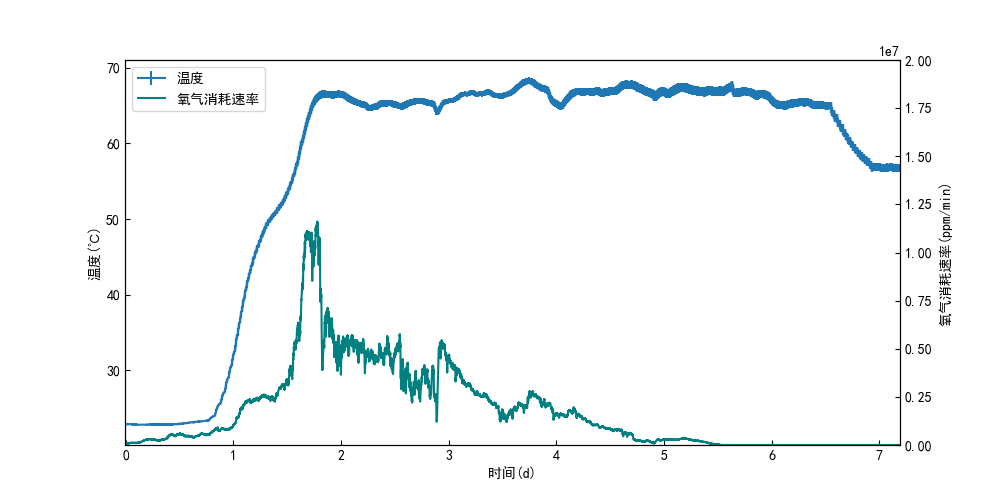
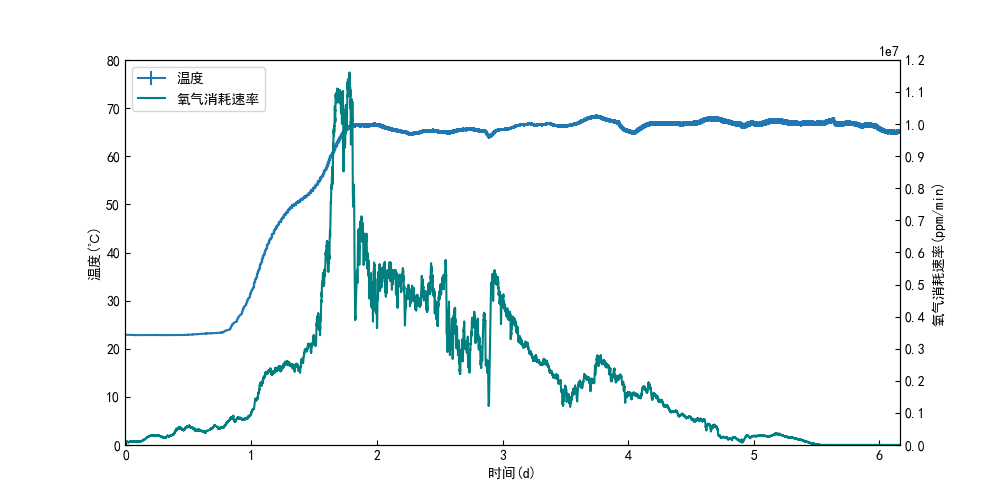
最新

diff --git a/test.py b/test.py
@@ -5,12 +5,13 @@ import seaborn
 import matplotlib.dates as mdates
 from matplotlib import pyplot as plt
 import matplotlib
+from matplotlib.pyplot import MultipleLocator
 
 plt.rcParams['font.family'] = 'SimHei'
 plt.rcParams['axes.unicode_minus'] = False
 
-path_pre = 'data2'
-for i in range(1, 6):
+path_pre = 'data1'
+for i in range(4, 6):
     data = pandas.read_csv(path_pre + '/' + 'mr' + str(i) + '.csv')
     co2 = pandas.read_csv(path_pre + '/' + 'CO2-' + str(i) + '.csv')
     data['newindex'] = np.arange(len(data)-1, -1, -1)
@@ -50,8 +51,9 @@ for i in range(1, 6):
                      yerr=data['Std'][::],  label='温度')
     handle1, label1 = ax.get_legend_handles_labels()
     ax.xaxis.set_major_formatter(plt.FuncFormatter(format_func))
-    ax.xaxis.set_major_locator(mdates.HourLocator(byhour=12))
+    ax.xaxis.set_major_locator(mdates.HourLocator(byhour=22))
     # ax.set_xticks([0, 1, 2, 3, 4])
+    ax.set_ylim((0, 80))
     ax.set_ylabel('温度(℃)')
 
     ax1 = ax.twinx()
@@ -61,15 +63,20 @@ for i in range(1, 6):
     # ax1.xaxis.set_major_formatter(plt.FuncFormatter(format_func))
     # ax1.xaxis.set_major_locator(mdates.HourLocator(interval=24))
     ax1.set_ylabel("氧气消耗速率(ppm/min)")
-    ax1.set_ylim((0, 20000000))
+    ax1.set_ylim((0, 12000000))
+    y_major_locator=MultipleLocator(1000000)
+    ax1.yaxis.set_major_locator(y_major_locator)
+
     ax.set_xlabel('时间(d)')
 
     if path_pre == 'data1':
-        plt.xlim((19290.91, 19298.11))
+        # plt.xlim((19290.91, 19298.11))
+        # plt.xlim((19290.91, 19297.68))
+        plt.xlim((19290.91, 19297.08))
 
     if path_pre == 'data2':
-        # plt.xlim((19308.913, 19315.97))
-        plt.xlim((19309.5, 19316.7))
+        # plt.xlim((19309.5, 19316.7))
+        plt.xlim((19309.5, 19315.66))
 
     if path_pre == 'data3':
         plt.xlim((19317.913, 19324.97))
